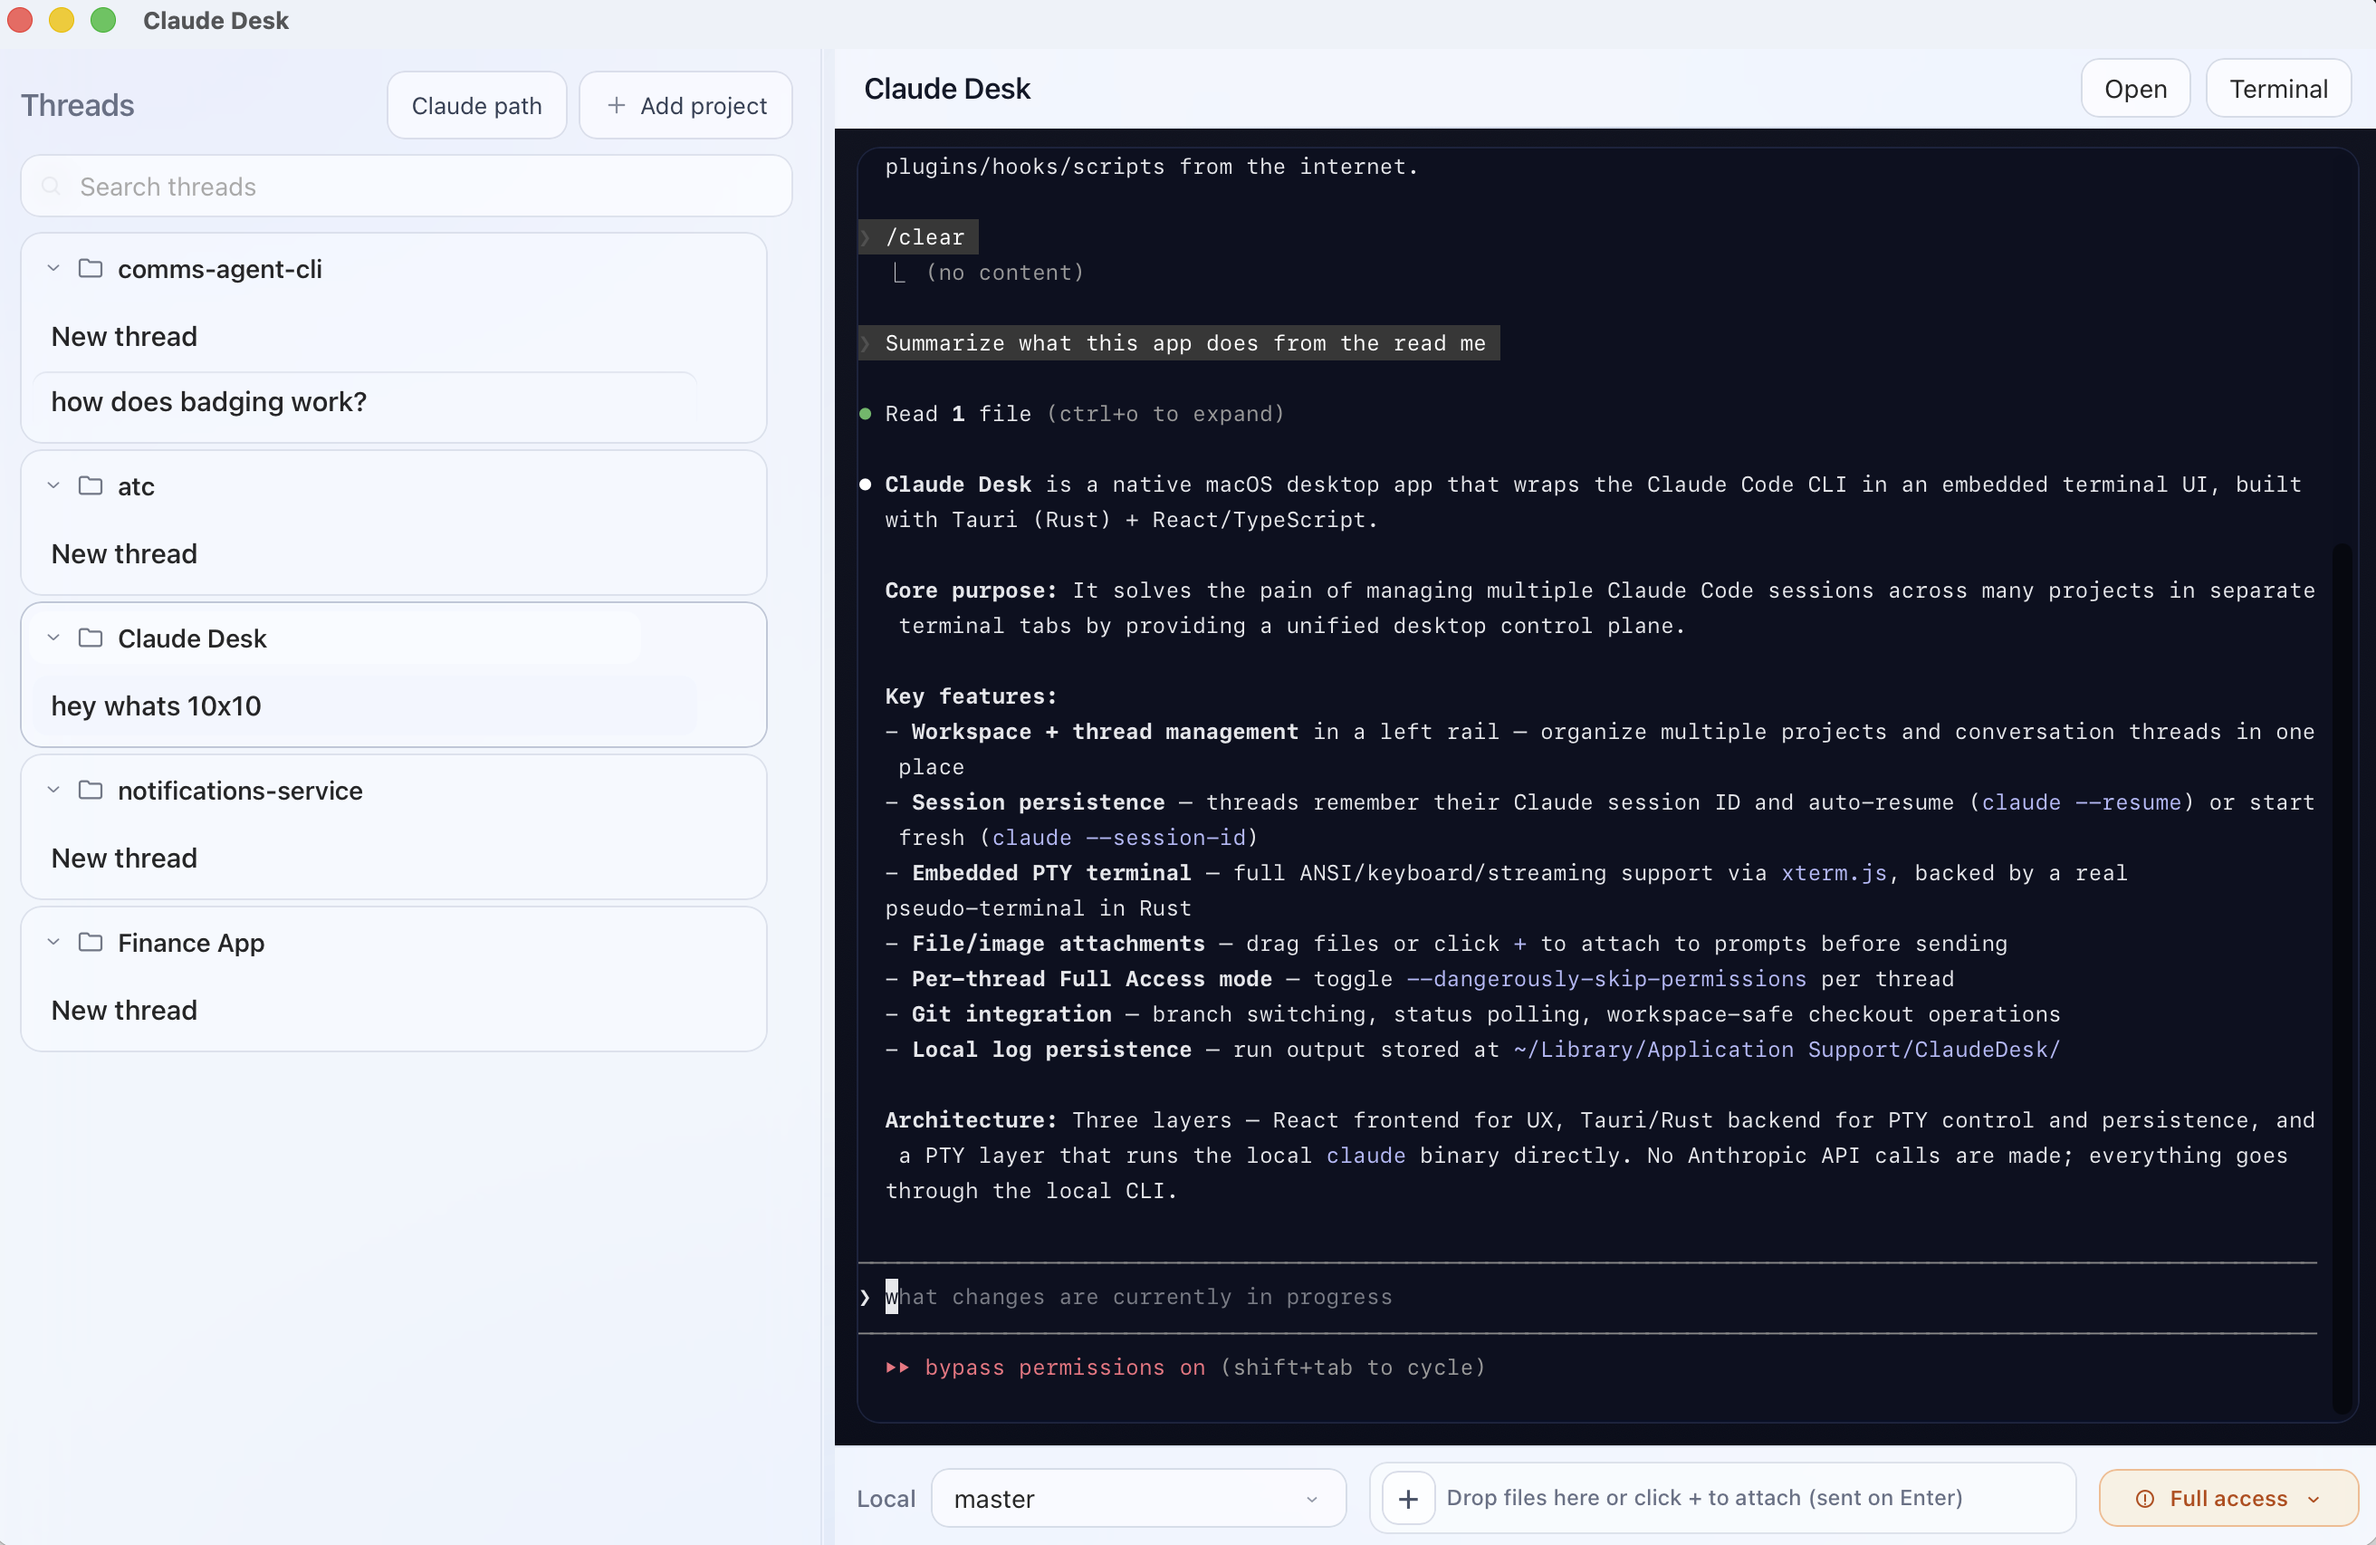
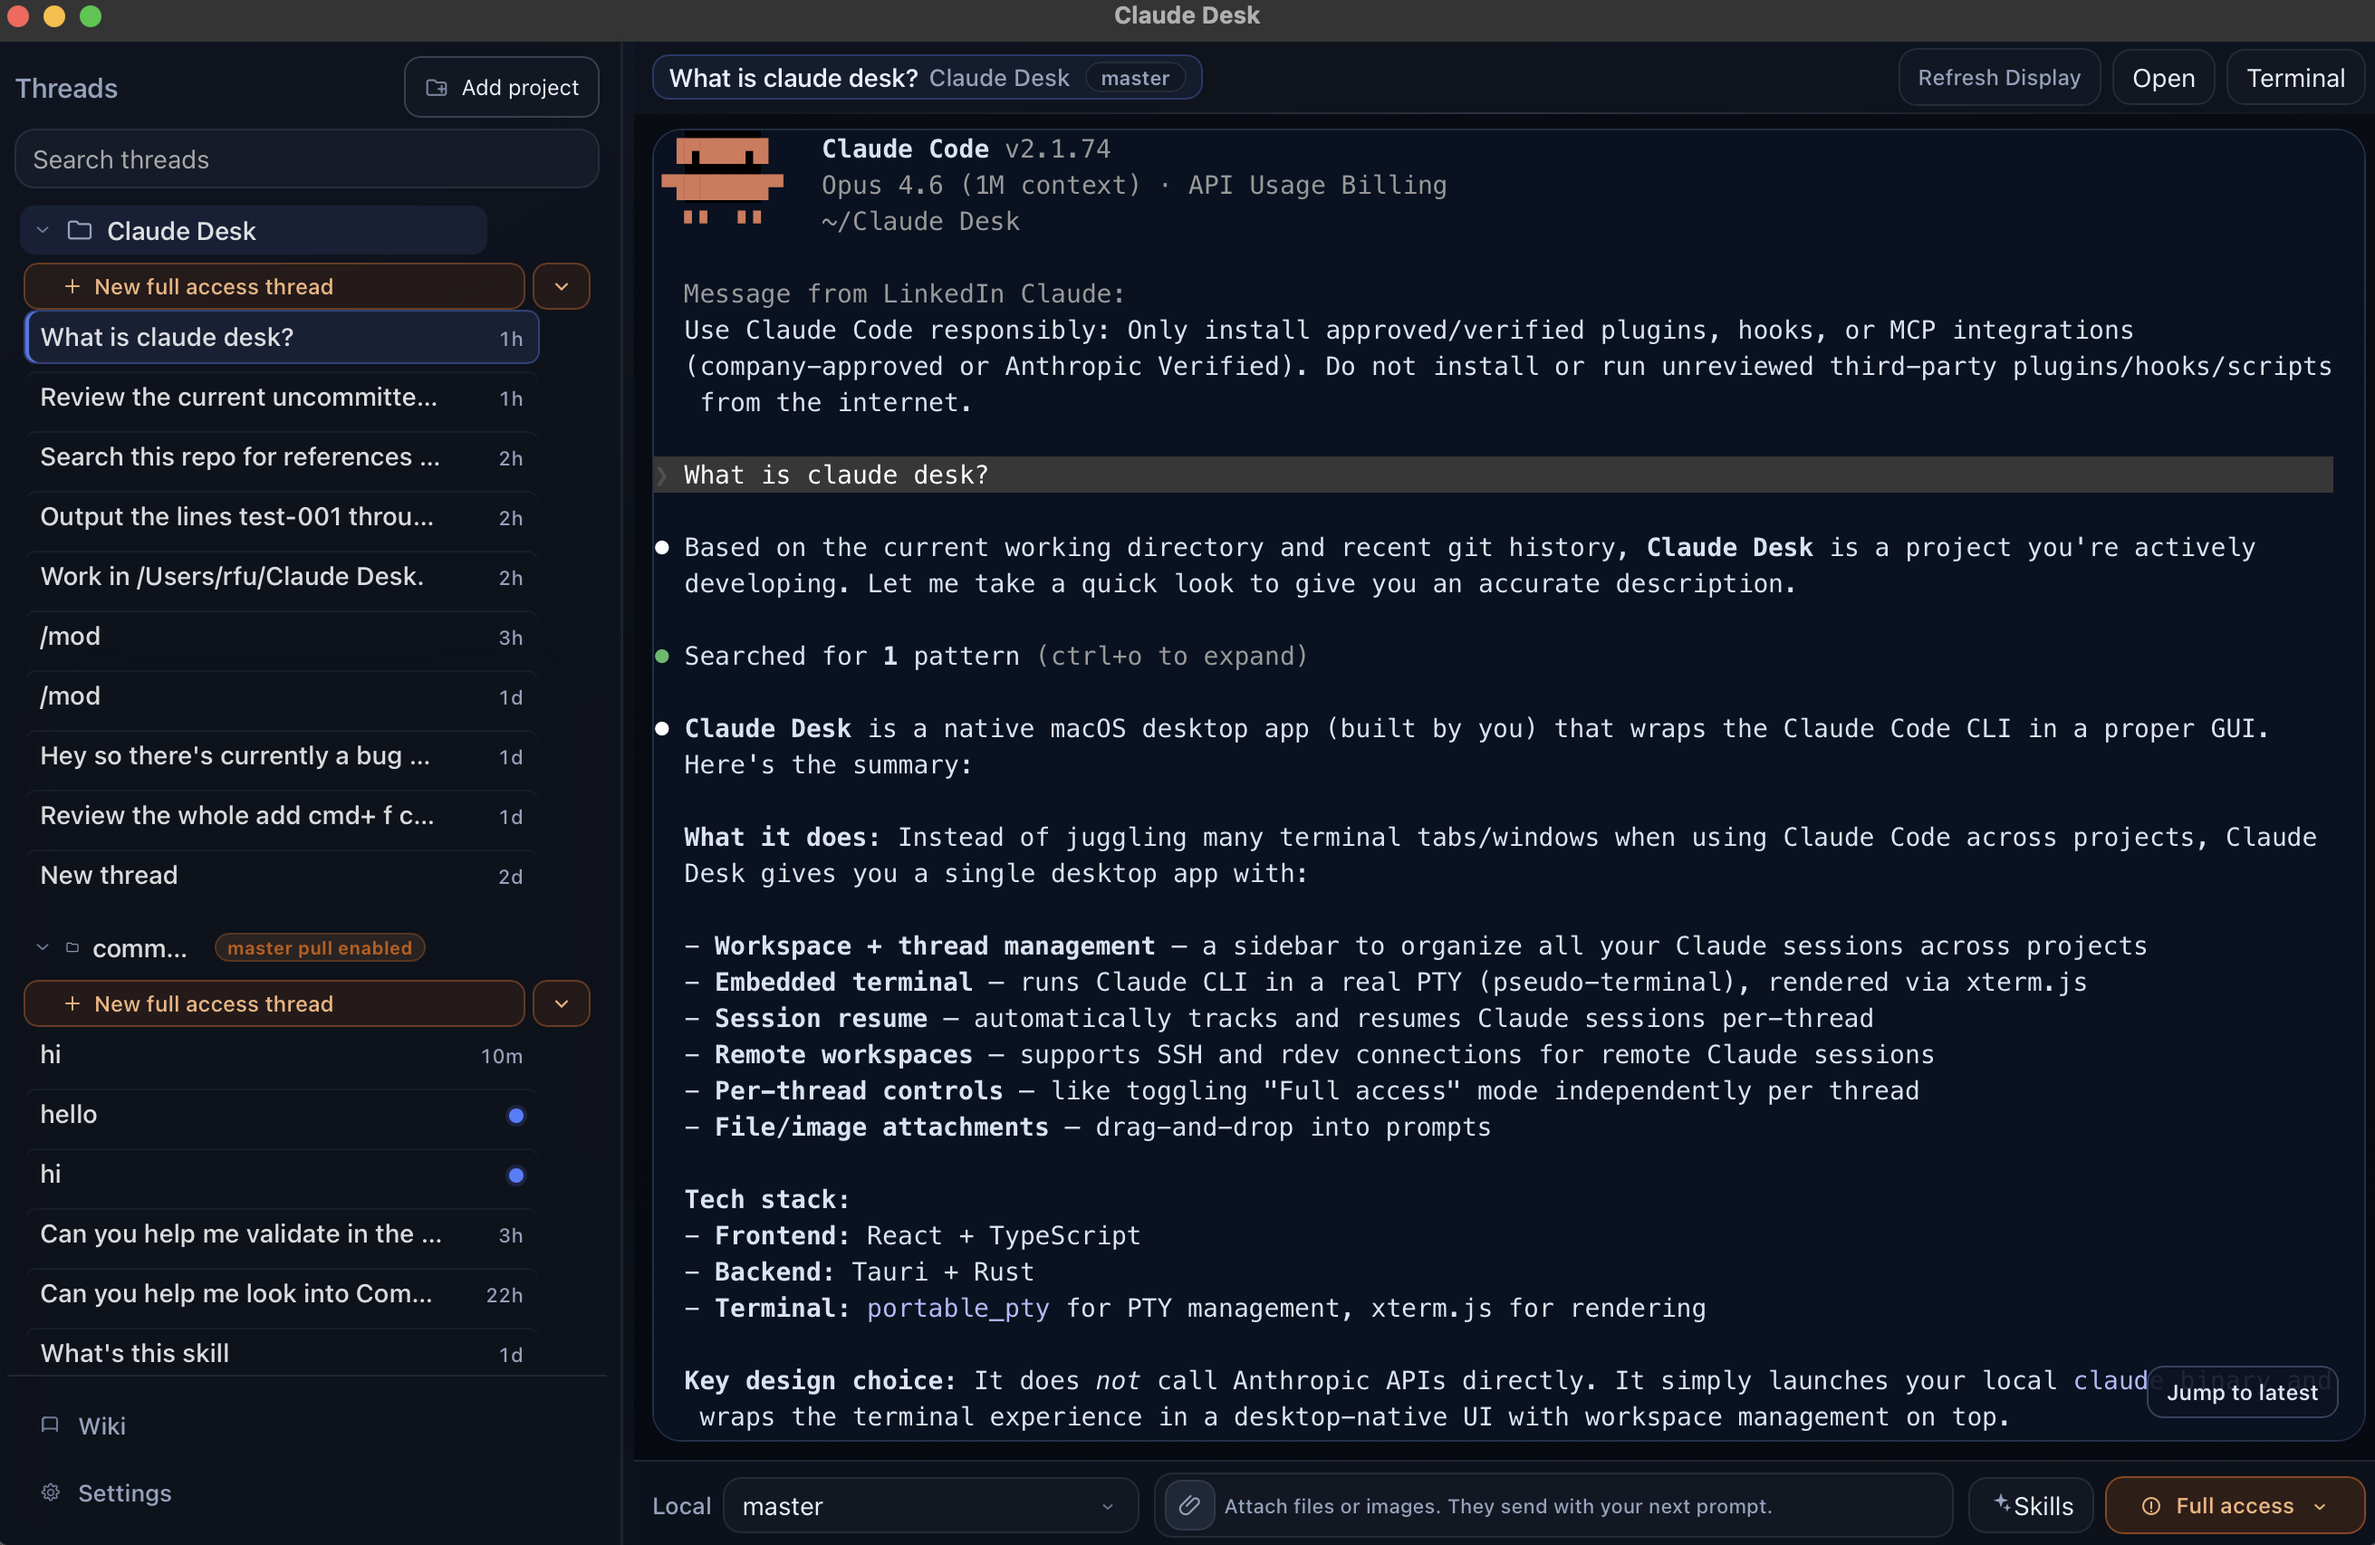
Refresh README and app screenshot

diff --git a/README.md b/README.md
@@ -1,10 +1,21 @@
 # Claude Desk
 
-Claude Desk is a native macOS Tauri app that wraps the local Claude Code CLI in an embedded terminal UI.
+Claude Desk is a native macOS desktop app that wraps the local Claude Code CLI in a purpose-built control plane.
 
-The app does not call Anthropic APIs directly. It launches your local `claude` binary in an interactive PTY and renders output in-app.
+The app does not call Anthropic APIs directly. It launches your local `claude` binary in a real PTY, renders terminal output in-app, and keeps thread/session state on your machine.
+
+Most UI actions map directly to local CLI or git behavior. The main exception is explicit convenience context that you opt into: selected skills and queued attachments are prepended locally before your next submitted prompt.
 
 ![Claude Desk UI](assets/claude-desk-ui.png)
+
+## Highlights
+
+- Workspace + thread management across local, `ssh`, and `rdev` workspaces.
+- One-click thread start/resume with per-thread `Full access`, agent, and skills settings.
+- Session import for existing Claude conversations, including bulk import from local Claude storage.
+- Built-in file/image attachments, unread dots, task-completion notifications, and Dock badge counts.
+- Git-aware branch switching plus optional `git checkout master && git pull` before new threads.
+- Redesigned in-app settings for Claude path detection, diagnostics, and defaults.
 
 ## Security Model
 
@@ -32,11 +43,44 @@ Claude Desk solves this by keeping Claude CLI local while adding a desktop contr
 
 - Workspace + thread management in one left rail.
 - Local and remote workspaces in one UI (direct `ssh ...` or `rdev ssh ...`, both with thread-scoped session resume).
-- One-click start/resume for thread-scoped Claude sessions.
+- One-click normal or `Full access` thread start/resume for thread-scoped Claude sessions.
+- Import existing Claude sessions individually or in bulk.
 - Embedded PTY terminal behavior (ANSI, keyboard, streaming) with local log persistence.
 - Attachment workflow for prompts: click `+` or drag files/images into the bottom bar, then send with your next Enter submit.
-- Built-in project helpers (open folder/terminal, git branch/status context).
-- Optional per-thread controls like `Full access`, plus thread-level settings such as agent/skills.
+- Built-in project helpers (open folder/terminal, git branch/status context, optional pull-on-master startup).
+- Optional per-thread controls like `Full access`, agent selection, and skills.
+- Background completion signals via unread dots, desktop notifications, and Dock badge counts.
+
+## Core Concepts
+
+### Workspace
+
+A workspace is the execution root for Claude and related shell operations.
+
+Supported workspace types:
+
+- `local`
+- `ssh`
+- `rdev`
+
+Remote workspaces store connection details in Claude Desk, but Claude still runs in the shell environment you connect to.
+
+### Thread
+
+A thread is a named Claude conversation inside a workspace.
+
+Each thread stores thread-scoped metadata such as:
+
+- Claude session id
+- `Full access` state
+- enabled skills
+- last activity timestamps
+
+Deleting a thread removes Claude Desk metadata and logs. It does not delete the underlying Claude conversation if you still know the session id.
+
+### Run
+
+A run is a concrete terminal/process instance under a thread. Runs write logs under the thread's `runs/` directory and are separate from persisted thread metadata.
 
 ## Quick Start (No Dev Setup)
 
@@ -63,6 +107,37 @@ Prebuilt release note:
 
 - Releases publish a macOS DMG and app ZIP via GitHub Actions.
 - If you hit machine-specific compatibility issues, build from source locally (`yarn tauri build`) for your environment.
+
+## Product Features
+
+### Import Existing Sessions
+
+Claude Desk supports two import flows:
+
+- Manual import by Claude session id from a workspace context menu.
+- Bulk import from local Claude history under `~/.claude/projects`.
+
+Bulk import can automatically add missing local projects first, skip already-imported sessions, and import multiple sessions in one pass.
+
+### Alerts, Dock Badge, and Updates
+
+Claude Desk can surface background thread completion through:
+
+- unread dots in the left rail
+- macOS task completion alerts
+- Dock badge counts for unread threads
+
+When a newer release is available, Claude Desk can also install updates in place from inside the app.
+
+### Settings
+
+The Settings UI covers the main app-level controls:
+
+- appearance mode: System, Light, or Dark
+- task completion alerts and a test alert action
+- Claude CLI path override and detected-path fallback
+- default new-thread `Full access` behavior
+- terminal environment diagnostics copy action
 
 ## Development Requirements (Source Build Only)
 
@@ -139,6 +214,8 @@ Important files/directories:
 - `threads/<workspaceId>/<threadId>/runs/<runId>/output.log`
 - `threads/<workspaceId>/<threadId>/runs/<runId>/metadata.json`
 
+Backing up this directory preserves Claude Desk metadata, thread state, and local run logs.
+
 ## Security Notes (Detailed)
 
 Current controls:
@@ -148,6 +225,7 @@ Current controls:
 - `Full access` is only enabled when explicitly set on a thread; default thread creation keeps it off.
 - Diagnostics output applies redaction heuristics for common secret-like environment variable names before writing diagnostics artifacts.
 - Git helpers run with non-interactive prompts disabled and include command timeouts.
+- Skills and queued attachments are only prepended when you explicitly select or stage them.
 
 Known limitations:
 
